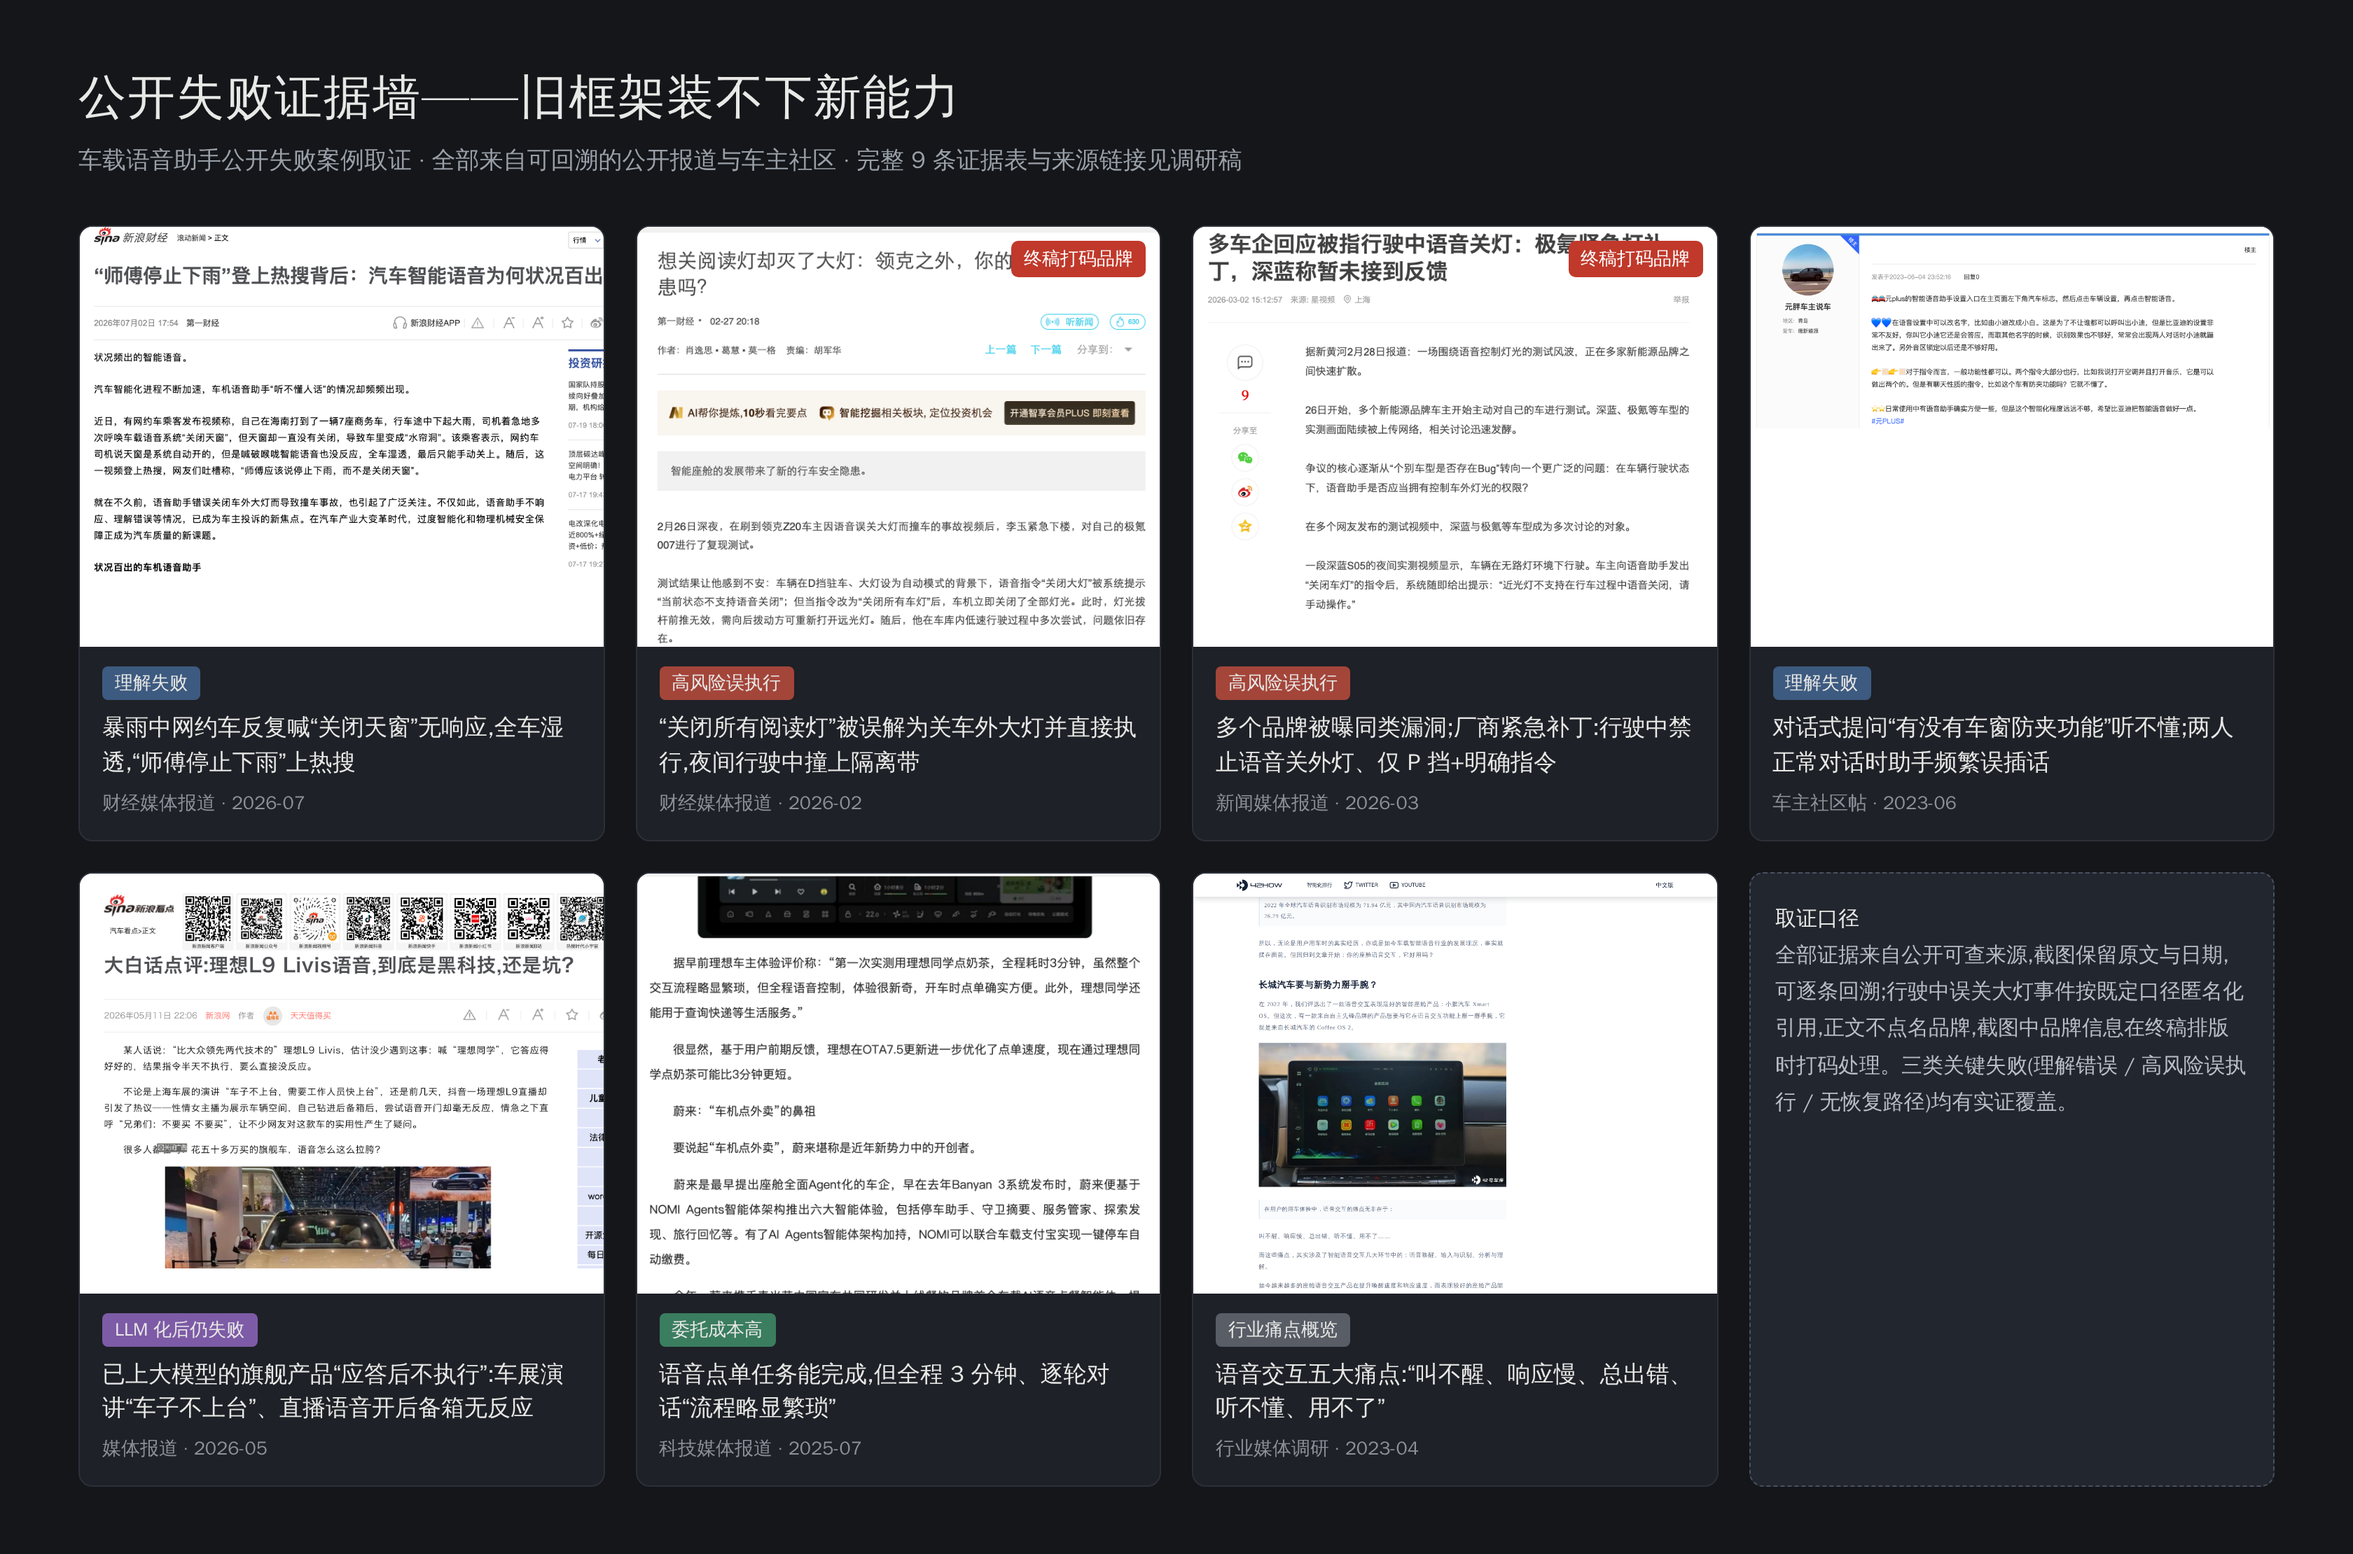
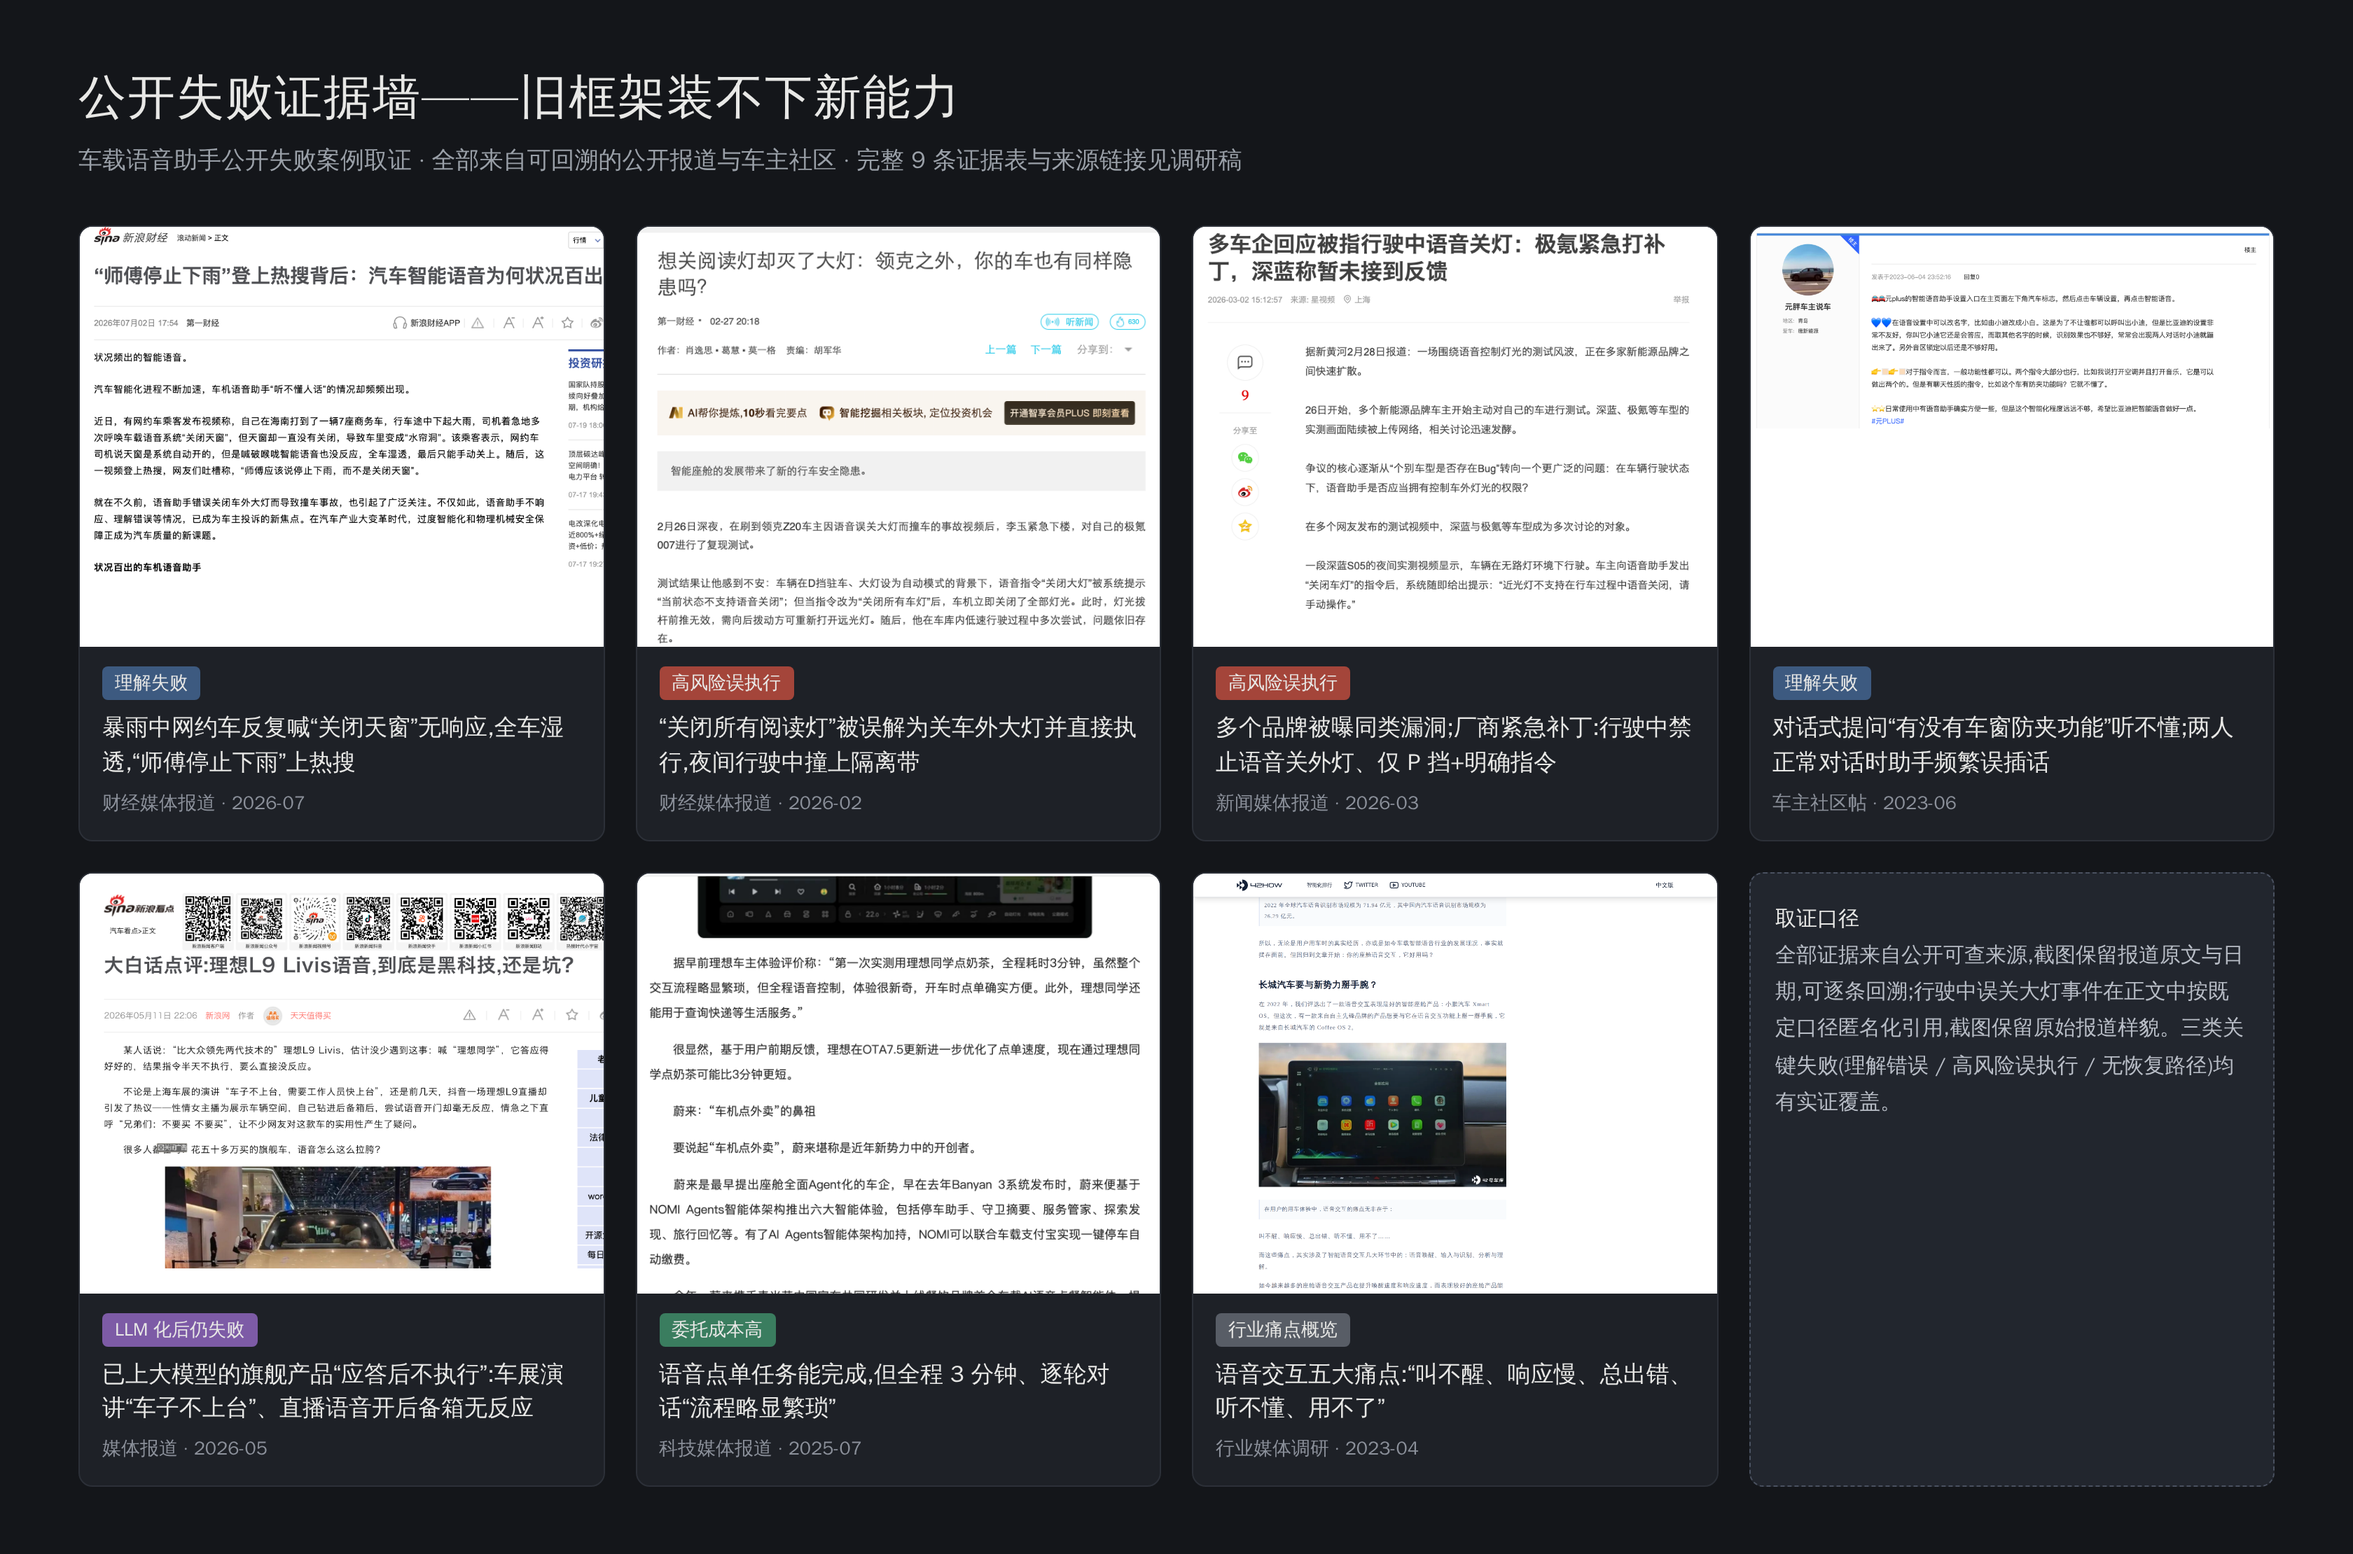
证据截图不打码(用户拍板):证据墙去掉打码标注重出,正文/README同步口径——文字仍匿名化,截图保留原始报道样貌
Claude-Session: https://claude.ai/code/session_01GQ4fZyj9gfJ8V4sjvRyRP3

Changed region(s): [[0.75, 0.5905, 0.9688, 0.7149], [0.6562, 0.1554, 0.75, 0.1865], [0.4062, 0.1554, 0.5, 0.1865]]

diff --git a/assets/case02-证据/README.md b/assets/case02-证据/README.md
@@ -18,4 +18,4 @@
 
 注意:
 - 只截文章正文区域,不带浏览器边框/书签栏/标签页
-- 灯光事件相关截图仅作工作稿溯源,进 PDF 时按匿名化口径处理
+- 截图保留原始报道样貌,不打码(2026-07-19 拍板);正文文字仍按匿名化口径不点名品牌
